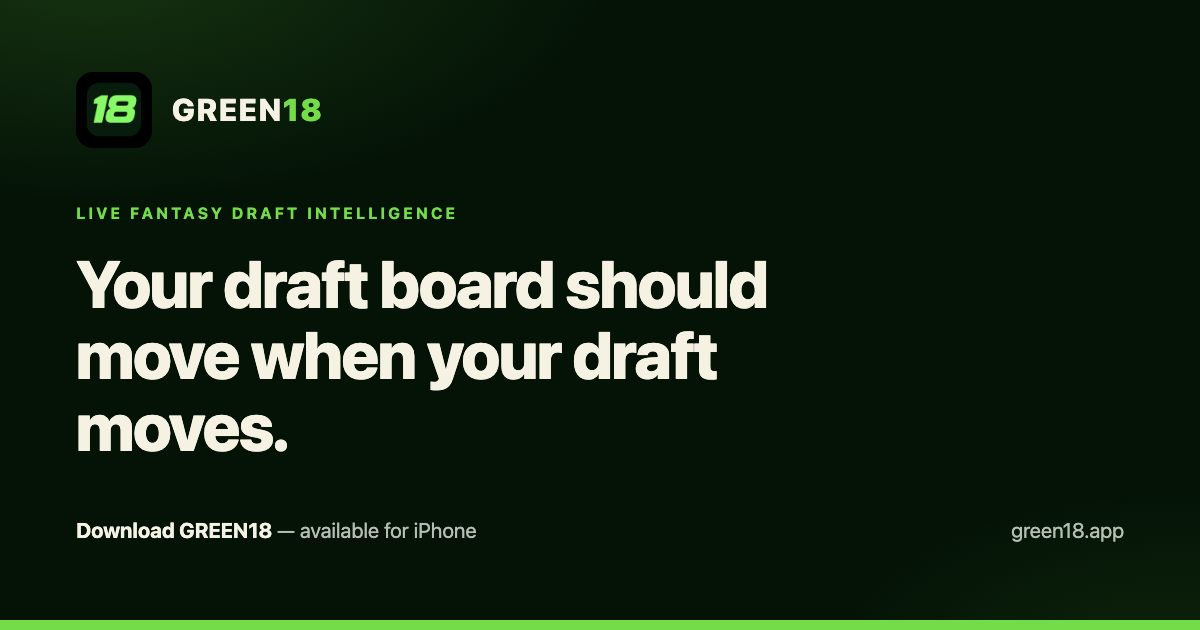
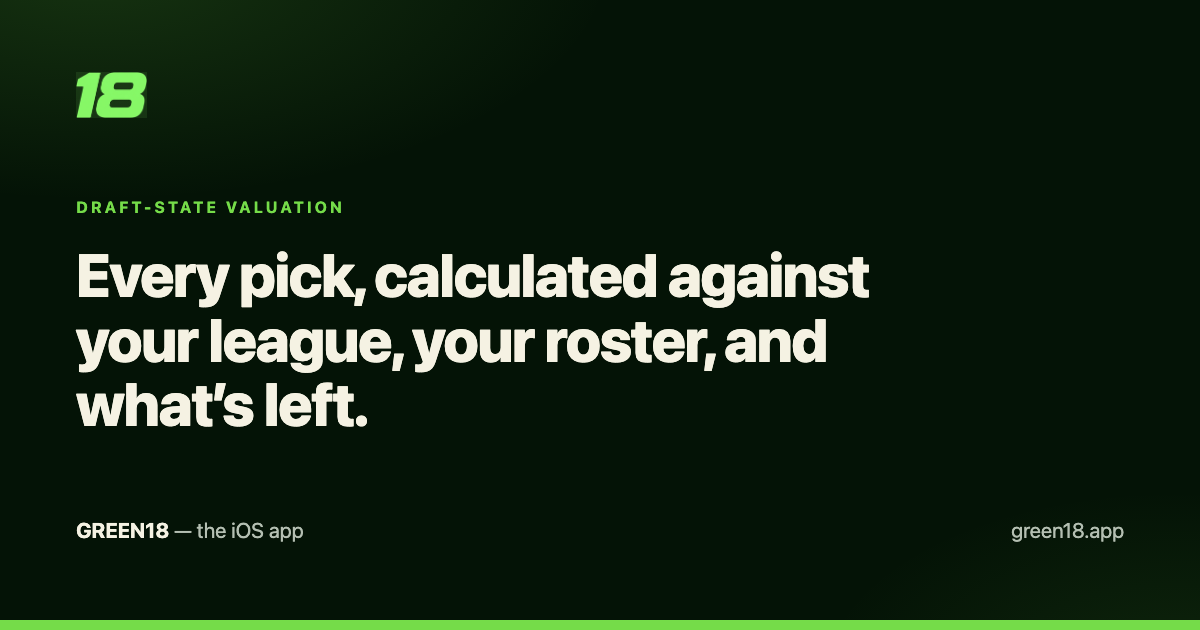
feat(site): the tagline is the headline; the original line headlines the live-draft page
Operator ruling. The homepage H1 is now "Every Pick, Calculated Against Your
League, Your Roster, and What's Left." — the tagline, promoted.

"Your Draft Board Should Move When Your Draft Moves." moves to
/live-fantasy-football-draft-assistant, whose entire subject is the board
changing during the draft. It replaces that page's weaker paraphrase of the
same idea ("A Draft Assistant That Changes While You Draft."), so the line
gains a page that is genuinely about it rather than a new page built to house
it — a page whose only differentiator was a headline would be the doorway page
the brief forbids. All four protected statements still resolve.

Two knock-on fixes the longer headline forced:
  - The hero text column was ~512px, wrapping the new H1 to FIVE lines. The
    demo column is now fixed at 17rem (its cap) instead of taking ~0.95fr, so
    the text column gets ~760px and the headline sets in three.
  - The hero micro was carrying the tagline; it is the headline now, so the
    micro went back to supporting detail rather than repeating it.

The share card is regenerated with the new headline, the trimmed 18 mark, and
a footer that matches the header CTA's language ("GREEN18 — the iOS app").

diff --git a/index.html b/index.html
@@ -94,7 +94,7 @@
           <div class="hero-grid">
           <div class="measure">
             <p class="eyebrow">Draft-State Valuation</p>
-            <h1>Your Draft Board Should Move When Your Draft Moves.</h1>
+            <h1>Every Pick, Calculated Against Your League, Your Roster, and What’s Left.</h1>
             <div class="lede">
               <p>Static rankings can’t see your draft. GREEN18 can.</p>
               <p>A ranking is built before your draft exists. <strong>Draft-State Valuation (DSV)</strong> values a player against the draft you are actually in — your league’s rules, your roster, who is already gone, and how long until you pick again.</p>
@@ -104,7 +104,7 @@
         <div class="cta-group">
           <a class="btn btn-ghost" href="#how-it-works">See How GREEN18 Works</a>
         </div>
-        <p class="cta-sub"><strong>Every pick, calculated against your league, your roster, and what’s left.</strong> Available for iPhone.</p>
+        <p class="cta-sub">Available for iPhone · Built for the 2026 fantasy football draft</p>
           </div>
           <div class="phone-wrap">
             <div class="phone" role="img" aria-label="The GREEN18 live draft board on iPhone, reordering as picks are recorded.">

diff --git a/assets/site.css b/assets/site.css
@@ -305,7 +305,11 @@ footer.site { border-top: 1px solid var(--border); background: var(--bg); paddin
    everywhere else. */
 .hero-grid { display: grid; gap: 2.5rem; align-items: center; }
 @media (min-width: 900px) {
-  .hero-grid { grid-template-columns: minmax(0, 1.05fr) minmax(0, .95fr); gap: 3.5rem; }
+  /* The demo column is now a fixed 17rem (its cap), so the text column takes
+     everything else instead of splitting the row near-evenly. A longer
+     headline was wrapping to five lines against a ~512px column; this gives
+     it roughly 760px at the page's max width. */
+  .hero-grid { grid-template-columns: minmax(0, 1fr) 17rem; gap: 3.5rem; }
   .hero-split .measure { max-width: none; }
 }
 

diff --git a/live-fantasy-football-draft-assistant.html b/live-fantasy-football-draft-assistant.html
@@ -142,7 +142,7 @@
           <div class="">
           <div class="measure">
             <p class="eyebrow">Live Fantasy Draft Intelligence</p>
-            <h1>A Draft Assistant That Changes While You Draft.</h1>
+            <h1>Your Draft Board Should Move When Your Draft Moves.</h1>
             <div class="lede">
               <p>Your fantasy draft isn’t static.</p>
               <p>Your draft tool shouldn’t be either.</p>
